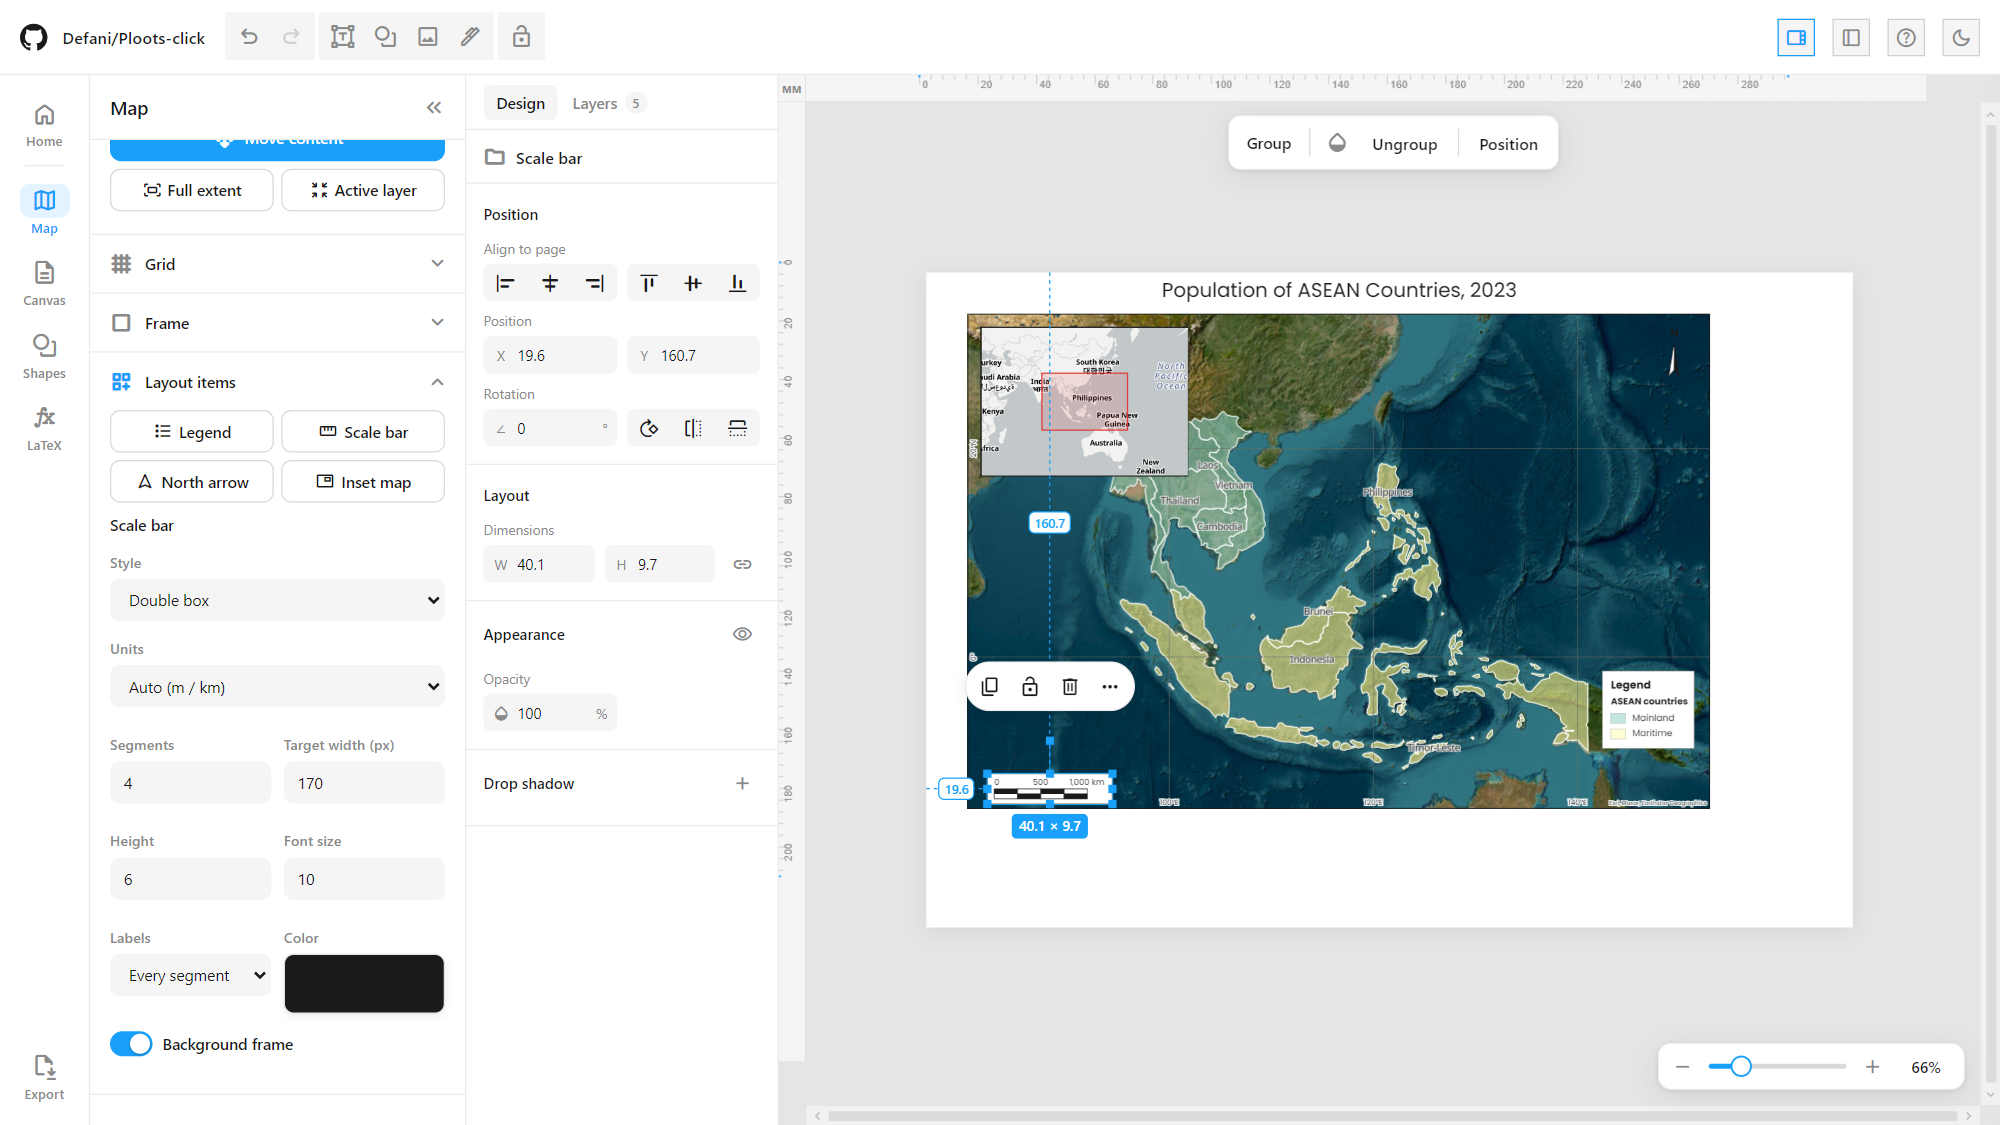
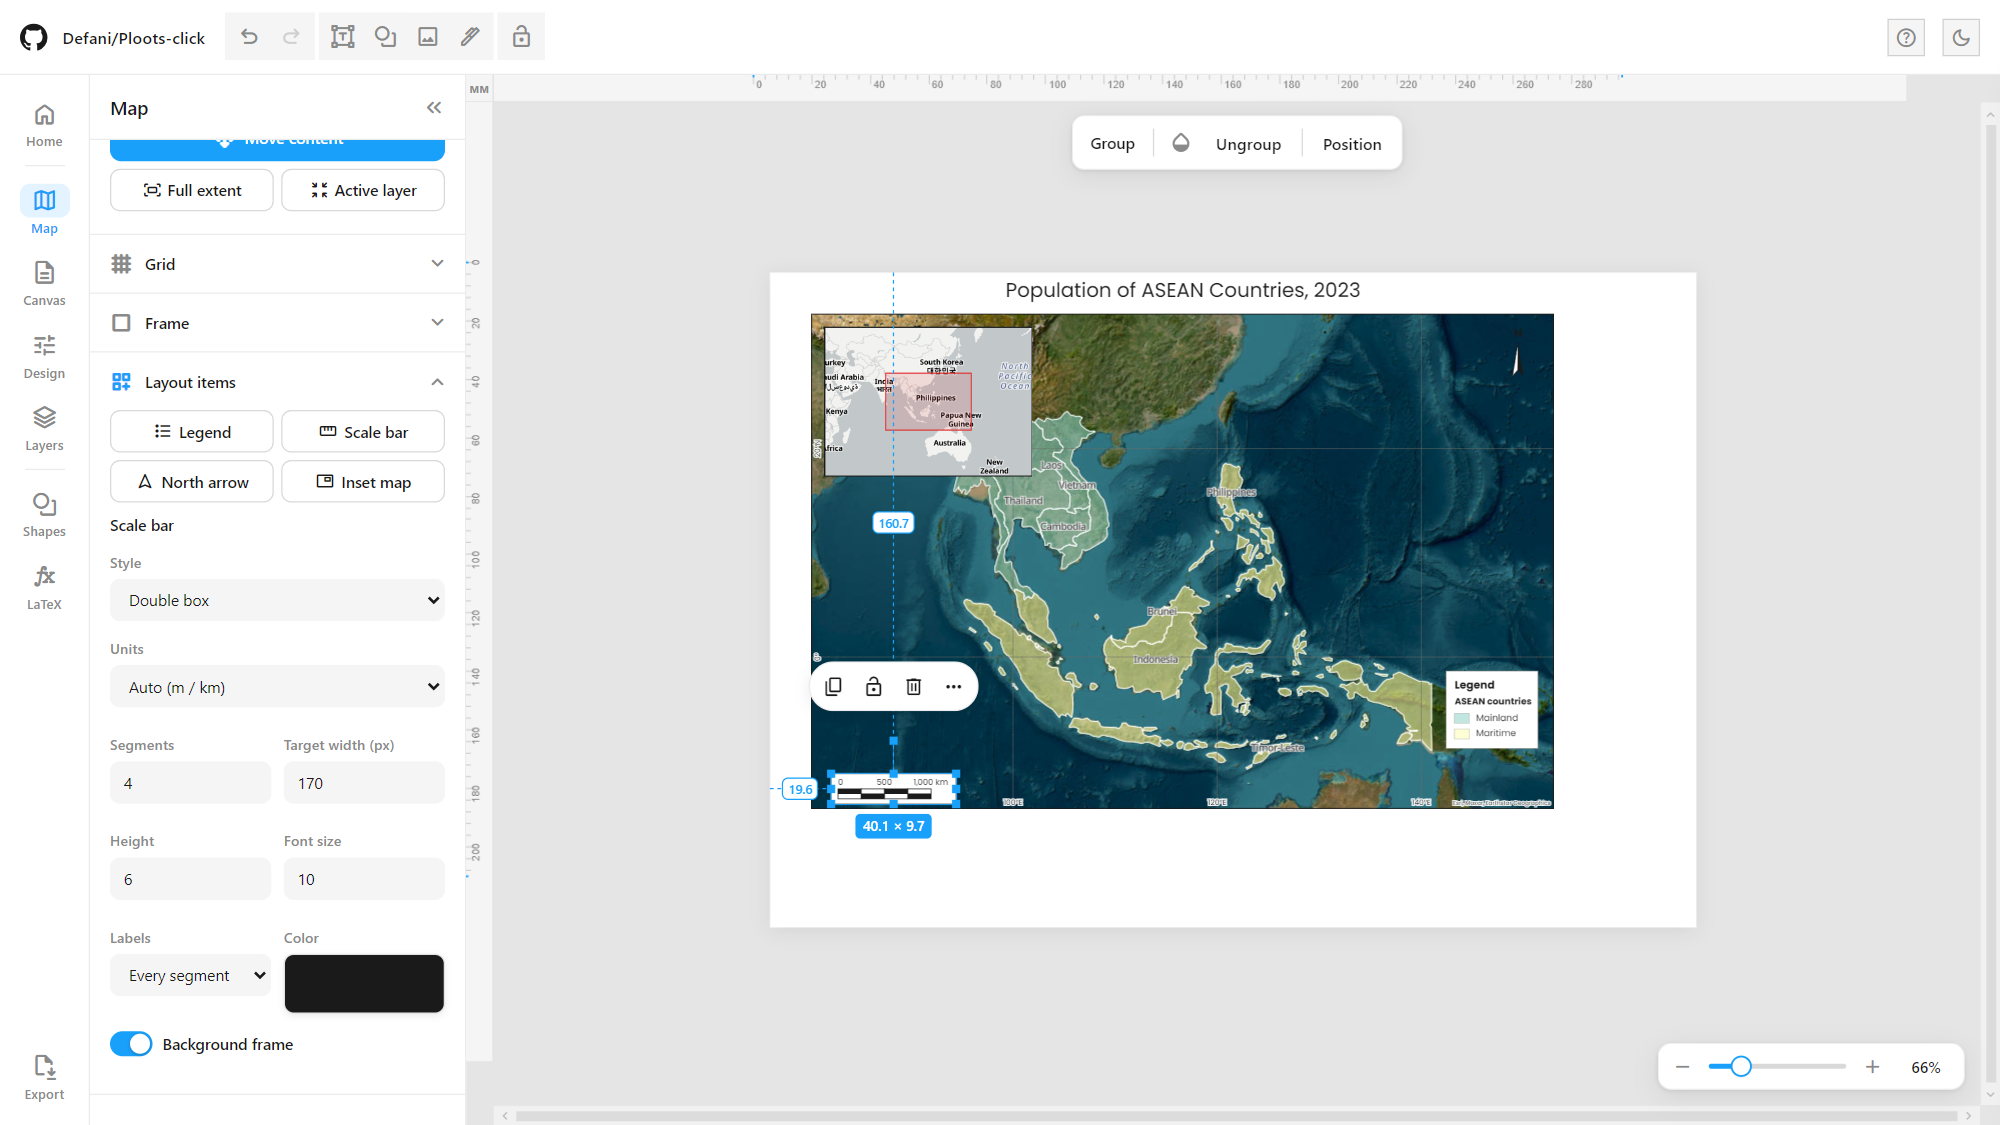
One left sidebar: Design and Layers move into it
The Design and Layers panels no longer sit on the right of the canvas;
they are panels of the left sidebar with their own rail buttons, and the
left/right docking option is gone. The rail is grouped by task (Home ·
Data or Map · Canvas, Design, Layers · Chart, Axis, Legend, Style ·
Shapes, LaTeX · Export) and each mode shows only its own menus: charts
hide Map, maps hide the chart menus and Data. The canvas now runs to the
right edge of the window.

Also drop the Layers panel's guide texts, and retake the README
screenshots for the new layout.

diff --git a/js/layout-editor/29-sidebar-design.js b/js/layout-editor/29-sidebar-design.js
@@ -1,0 +1,74 @@
+// One sidebar on the left. The Design and Layers panels (25-design-panel.js,
+// 21-layers-panel.js) used to float on the right of the canvas; they now live
+// in the left sidebar like every other panel, opened from their own rail
+// buttons, so all settings are in one place and the canvas keeps its width.
+//
+// The rail is also grouped by task, and each mode shows only its own menus:
+//   Home | Data (charts) or Map (maps) | Canvas, Design, Layers |
+//   Chart, Axis, Legend, Style (charts) | Shapes, LaTeX | Export
+(function () {
+  'use strict';
+
+  var nav = document.querySelector('.sidebar-nav');
+  var sidebar = document.querySelector('.sidebar');
+  var lp = document.getElementById('layersPanel');
+  if (!nav || !sidebar || !lp) return;
+
+  // Host panel for the Design/Layers panel.
+  var host = document.createElement('div');
+  host.id = 'panel-design';
+  host.className = 'sidebar-panel';
+  host.innerHTML = '<div class="sp-head"><span class="sp-title">Design</span>' +
+    '<button type="button" class="sp-close" title="Close panel" aria-label="Close panel"><span class="material-symbols-outlined">keyboard_double_arrow_left</span></button></div>';
+  host.appendChild(lp);
+  sidebar.appendChild(host);
+  host.querySelector('.sp-close').addEventListener('click', function () { if (window.closeSidebar) window.closeSidebar(); });
+
+  function railButton(id, icon, label) {
+    var b = document.createElement('button');
+    b.className = 'nav-btn';
+    b.id = id;
+    b.title = label;
+    b.innerHTML = '<span class="material-symbols-outlined">' + icon + '</span><span class="nav-lbl">' + label + '</span>';
+    return b;
+  }
+  var designBtn = railButton('navDesign', 'tune', 'Design');
+  var layersBtn = railButton('navLayers', 'stacks', 'Layers');
+
+  function currentPane() { return lp.classList.contains('rp-design') ? 'design' : 'layers'; }
+  function isOpen(pane) {
+    return host.classList.contains('active') && !sidebar.classList.contains('closed') && currentPane() === pane;
+  }
+  function open(pane, btn) {
+    if (isOpen(pane)) { window.closeSidebar(); return; }
+    activateSidebarPanel('panel-design');
+    var tab = lp.querySelector('.rp-tab[data-pane="' + pane + '"]');
+    if (tab) tab.click();
+    host.querySelector('.sp-title').textContent = pane === 'design' ? 'Design' : 'Layers';
+    document.querySelectorAll('.sidebar-nav .nav-btn').forEach(function (b) { b.classList.remove('active'); });
+    btn.classList.add('active');
+  }
+  designBtn.addEventListener('click', function () { open('design', designBtn); });
+  layersBtn.addEventListener('click', function () { open('layers', layersBtn); });
+
+  // Other rail buttons clear ours (activateSidebarPanel only knows data-panel).
+  nav.addEventListener('click', function (e) {
+    var b = e.target.closest('.nav-btn');
+    if (b && b !== designBtn && b !== layersBtn) { designBtn.classList.remove('active'); layersBtn.classList.remove('active'); }
+  }, true);
+
+  // Regroup the rail.
+  function sep() { var s = document.createElement('div'); s.className = 'nav-sep'; return s; }
+  function btn(panel) { return nav.querySelector('.nav-btn[data-panel="' + panel + '"]'); }
+  var canvas = btn('panel-canvas'), chart = btn('panel-chart'), axis = btn('panel-axis'), legend = btn('panel-legend');
+  var style = btn('panel-color'), shapes = btn('panel-shapes'), latex = btn('panel-latex');
+  if (canvas) {
+    canvas.after(designBtn);
+    designBtn.after(layersBtn);
+    var s1 = sep(); s1.classList.add('nav-sep-chart'); layersBtn.after(s1);
+    var chain = [chart, axis, legend, style].filter(Boolean), prev = s1;
+    chain.forEach(function (b) { prev.after(b); prev = b; });
+    var s2 = sep(); prev.after(s2);
+    if (shapes) { s2.after(shapes); if (latex) shapes.after(latex); }
+  }
+})();

diff --git a/index.html b/index.html
@@ -952,20 +952,18 @@ html[data-theme=dark]{ --dv-dim:#6f97e0; --dv-dim-soft:rgba(111,151,224,.14); --
 .home-actions button{flex:1;padding:8px 10px}
 .home-close{position:absolute;top:14px;right:14px;border:none;background:none;color:var(--ink-soft);cursor:pointer;padding:4px;min-width:0}
 @media (max-width:600px){.home-cards{grid-template-columns:1fr}}
-/* Panel docking (29-panel-dock.js): the Design/Layers panel is a column of
-   .app next to the sidebar, so nothing floats over the canvas. */
-.app>.layers-panel{position:relative;top:auto;right:auto;bottom:auto;left:auto;height:auto;flex:none;border-left:none;border-right:1px solid var(--line)}
+/* One left sidebar (29-sidebar-design.js): the Design/Layers panel is a
+   sidebar panel, so nothing sits on the right of the canvas. */
+#panel-design .layers-panel{position:static;width:auto;height:auto;border:none;background:none;box-shadow:none;overflow:visible;z-index:auto}
+#panel-design .rp-tabs{display:none}
+#panel-design .layers-panel-head{height:auto;padding:4px 14px 8px;border-bottom:none;justify-content:flex-end}
+#panel-design .layers-panel.rp-design .layers-panel-head{display:none}
 .canvas-vscroll{right:0}
 .canvas-hscroll{right:16px}
 .canvas-zoom-bar{right:28px}
-body.dock-right .app>.main{order:1}
-body.dock-right .app>.layers-panel{order:2;border-right:none;border-left:1px solid var(--line)}
-body.dock-right .sidebar-container{order:3;flex-direction:row-reverse;border-right:none;border-left:1px solid var(--line)}
-body.dock-right .sidebar-nav{border-right:none;border-left:1px solid var(--line)}
-body.rp-hidden .app>.layers-panel,body.data-view-active .app>.layers-panel{display:none}
-#rightPanelBtn.active{color:var(--accent);border-color:var(--accent)}
-/* Map mode: the chart-only rail buttons step aside. */
-body.gis-mode .nav-btn[data-panel="panel-chart"],body.gis-mode .nav-btn[data-panel="panel-axis"],body.gis-mode .nav-btn[data-panel="panel-legend"],body.gis-mode .nav-btn[data-panel="panel-color"],body.gis-mode #navDataToggle{display:none}
+/* Each mode shows its own menus: charts hide Map, maps hide the chart menus. */
+body:not(.gis-mode) .nav-btn[data-panel="panel-map"]{display:none}
+body.gis-mode .nav-btn[data-panel="panel-chart"],body.gis-mode .nav-btn[data-panel="panel-axis"],body.gis-mode .nav-btn[data-panel="panel-legend"],body.gis-mode .nav-btn[data-panel="panel-color"],body.gis-mode #navDataToggle,body.gis-mode .nav-sep-chart{display:none}
 </style>
 </head>
 <body>
@@ -1805,10 +1803,8 @@ body.gis-mode .nav-btn[data-panel="panel-chart"],body.gis-mode .nav-btn[data-pan
           <div class="layers-empty" id="layersEmptyMsg">
             <span class="material-symbols-outlined">stacks</span>
             <strong>No layers yet</strong>
-            Add text, shapes or images and they'll stack up here.
           </div>
         </div>
-        <div class="layers-foot">Drag to reorder · Ctrl/Shift+click to multi-select</div>
         <!-- Per-layer "⋯" menu (21-layers-panel.js) -->
         <div class="layer-menu" id="layerMenu" role="menu">
           <button type="button" data-act="rename"><span class="material-symbols-outlined">edit</span>Rename</button>
@@ -2419,7 +2415,7 @@ body.gis-mode .nav-btn[data-panel="panel-chart"],body.gis-mode .nav-btn[data-pan
 <script src="js/d3-engine/99-integration.js"></script>
 <!-- Wraps render() after the D3 dispatch so axis controls resync for every engine -->
 <script src="js/layout-editor/28-axis-controls-sync.js"></script>
-<script src="js/layout-editor/29-panel-dock.js"></script>
+<script src="js/layout-editor/29-sidebar-design.js"></script>
 <script src="js/undo_redo.js"></script>
 <script>
 // Registers the offline/repeat-visit cache. Uses a relative path and scope

diff --git a/sw.js b/sw.js
@@ -99,7 +99,7 @@ const PRECACHE_URLS = [
   "./js/layout-editor/26-selection-hud.js",
   "./js/layout-editor/27-object-float-bar.js",
   "./js/layout-editor/28-axis-controls-sync.js",
-  "./js/layout-editor/29-panel-dock.js",
+  "./js/layout-editor/29-sidebar-design.js",
   "./js/ui_sections.js",
   "./js/help_search.js",
   "./js/latex_symbols.js",

diff --git a/README.md b/README.md
@@ -78,7 +78,7 @@ The app opens on a **Home** screen: make a **Chart** from tabular data or a **Ma
   <img src="assets/screenshots/editor-light.png" alt="Ploots Click editor: chart type gallery on the left, a grouped bar chart on an A4 page, Design panel on the right" width="100%">
 </p>
 
-All panels sit on **one side** of the window so the page gets the most room: the rail and sidebar (Home, Data, Map, Canvas, Chart, Axis, Legend, Shapes, Style, LaTeX, Export) with the Figma-style **Design** and **Layers** panel next to them. Two buttons at the top right move the panels to the **left or right** and hide the Design/Layers panel. The page canvas has rulers, the mouse wheel zooms, and a dark theme is one click away (moon icon):
+Everything is set from **one sidebar on the left**, so the page keeps the rest of the window. Its rail is grouped by task — **Home** · **Data** (charts) or **Map** (maps) · **Canvas**, **Design**, **Layers** · **Chart**, **Axis**, **Legend**, **Style** (charts) · **Shapes**, **LaTeX** · **Export** — and each mode only shows the menus it uses. The page canvas has rulers, the mouse wheel zooms, and a dark theme is one click away (moon icon):
 
 <p align="center">
   <img src="assets/screenshots/editor-dark.png" alt="The same editor in dark theme" width="100%">
@@ -191,7 +191,7 @@ Every chart type, rendered by the D3 engine from its built-in sample data (click
   <img src="assets/screenshots/text-toolbar.png" alt="Selected text annotation with the floating text toolbar and the Design panel" width="100%">
 </p>
 
-**Shapes and other objects** get the same kind of floating bar (fill, stroke, dash, opacity, position). A Figma-style **size badge** (`W × H`) sits under the selection, with dashed **distance guides** to the page's left and top edges. The **Design** tab edits position, alignment to the page, rotation and flips, size (with a proportion lock), opacity, corner radius, fill, stroke and drop shadow:
+**Shapes and other objects** get the same kind of floating bar (fill, stroke, dash, opacity, position). A Figma-style **size badge** (`W × H`) sits under the selection, with dashed **distance guides** to the page's left and top edges. The **Design** panel edits position, alignment to the page, rotation and flips, size (with a proportion lock), opacity, corner radius, fill, stroke and drop shadow:
 
 <p align="center">
   <img src="assets/screenshots/object-design-panel.png" alt="Highlight rectangle selected, showing the floating object bar and the Design panel" width="100%">
@@ -380,7 +380,7 @@ flowchart TD
 │   │   ├── 26-selection-hud.js    #   W × H badge and distance guides for the selection
 │   │   ├── 27-object-float-bar.js #   floating bars for shapes, images, formulas, groups
 │   │   ├── 28-axis-controls-sync.js # keeps the Axis tab's controls and the Format Axis panel in sync
-│   │   └── 29-panel-dock.js       #   panels on one side (left/right), hide the Design/Layers panel
+│   │   └── 29-sidebar-design.js   #   Design and Layers as left-sidebar panels; groups the rail per mode
 │   ├── gis/                       # Map workspace (MapLibre GL)
 │   │   ├── 00-store.js            #   layers (vector / raster / XYZ), selection, export GeoJSON/CSV
 │   │   ├── 01-symbology.js        #   single / categorized / graduated (Jenks, quantile, equal)
